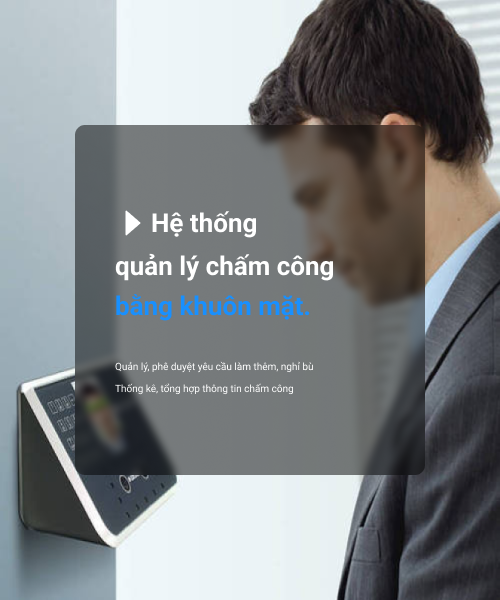
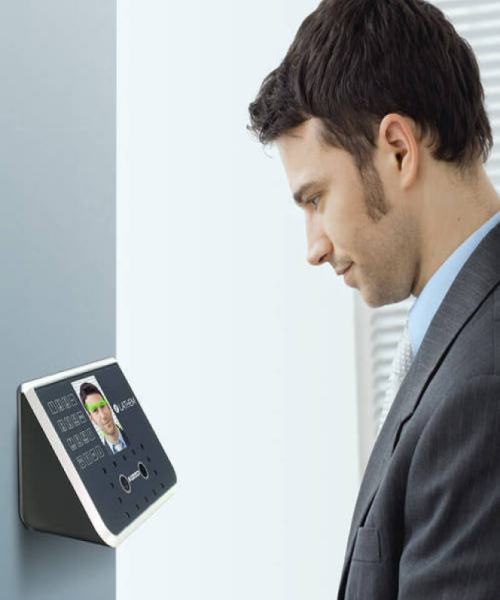
feat(login): update background

diff --git a/src/layouts/AuthLayout.tsx b/src/layouts/AuthLayout.tsx
@@ -1,12 +1,27 @@
 import { Outlet } from 'react-router-dom'
-import iconFaceDetection from '~/assets/images/login/cham-cong-khuon-mat.png'
+import bgLogin from '~/assets/images/login/bg-login.png'
+import iconPlay from '~/assets/images/login/icon-play.png'
 
 const AuthLayout: React.FC = () => {
   return (
     <div className='auth-container'>
       <div className='auth-inner-container tw-w-full tw-h-full'>
         <div className='auth-container__left tw-w-1/2 tw-hidden lg:tw-block'>
-          <img src={iconFaceDetection} alt='' style={{ width: '100%', height: '100%' }} />
+          <div className='inner-container'>
+            <img src={bgLogin} alt='' className='tw-w-full tw-h-full tw-absolute' />
+            <div className='tw-w-full tw-h-full tw-absolute modal-inner md:tw-p-[10px] xl:tw-pl-[50px]'>
+              <div className='tw-flex tw-items-center tw-w-full'>
+                <img src={iconPlay} alt='' /> <span className='tw-text-4xl tw-text-white'>Hệ thống quản lý </span>
+              </div>
+              <div className='tw-flex tw-items-center tw-w-full'>
+                <span className='tw-text-4xl tw-text-sky-600'>chấm công bằng khuôn mặt</span>
+              </div>
+              <div className='tw-hidden xl:tw-block login-title-note tw-mt-[20px]'>
+                <div className='tw-mb-[10px]'>Quản lý, phê duyệt yêu cầu làm thêm, nghỉ bù</div>
+                <div>Thống kê, tổng hợp thông tin chấm công</div>
+              </div>
+            </div>
+          </div>
         </div>
         <div className='auth-container__right tw-w-full lg:tw-w-1/2'>
           <Outlet />

diff --git a/src/layouts/style.scss b/src/layouts/style.scss
@@ -57,18 +57,39 @@
 
     .auth-container__left {
       // width: 50%;
-      background: linear-gradient(213.66deg, #69c0ff 38.11%, rgba(255, 204, 105, 0.4) 116.79%);
-      // background: url('../assets//images//login/sticker.png');
+      // background: linear-gradient(213.66deg, #69c0ff 38.11%, rgba(255, 204, 105, 0.4) 116.79%);
+      // background: url('../assets/images/login/bg-login.png');
       background-repeat: no-repeat;
       background-position: bottom left, bottom right;
 
       .inner-container {
-        width: 70%;
-        height: 70%;
+        width: 100%;
+        height: 100%;
         margin: auto;
-        // padding: 20px;
         box-sizing: border-box;
-        // background-color: rgba(255, 255, 255, 0.3);
+        position: relative;
+        display: flex;
+        justify-content: center;
+        align-items: center;
+
+        .modal-inner {
+          width: 60%;
+          height: 50%;
+          box-sizing: border-box;
+          margin: auto;
+          border-radius: 15px;
+          background-color: rgba(0, 0, 0, 0.3);
+          display: flex;
+          justify-content: center;
+          flex-direction: column;
+          gap: 10px;
+
+          .login-title-note {
+            color: white;
+            font-weight: 100;
+            font-size: 14px;
+          }
+        }
 
         .text-title__one,
         .text-title__two {

diff --git a/src/pages/login/index.tsx b/src/pages/login/index.tsx
@@ -48,9 +48,12 @@ const Index: React.FC = () => {
 
   return (
     <div className='login-container tw-pt-[15%]'>
-      <Row className='login-logo-container tw-h-[12%]'>
+      <Row className='login-logo-container tw-h-[12%]' align='middle'>
         <Col xs={24} md={{ span: 16, offset: 4 }}>
-          <img src={logo} alt='logo' />
+          <div className='tw-flex tw-items-center'>
+            <img src={logo} alt='logo' />
+            <span className='tw-text-3xl tw-font-bold tw-text-sky-500 tw-ml-[10px]'>ATTENCDENCE</span>
+          </div>
         </Col>
       </Row>
 
@@ -58,7 +61,7 @@ const Index: React.FC = () => {
         <Col xs={24} md={{ span: 16, offset: 4 }}>
           <div className='title-one tw-flex tw-items-center'>
             <span>{t('auth.hello')}</span>
-            <img src={iconHand} alt='' className='tw-ml-[10px]' />
+            {/* <img src={iconHand} alt='' className='tw-ml-[10px]' /> */}
           </div>
           <div className='title-two tw-mt-[10px]'>{t('auth.loginToSystem')}</div>
         </Col>
